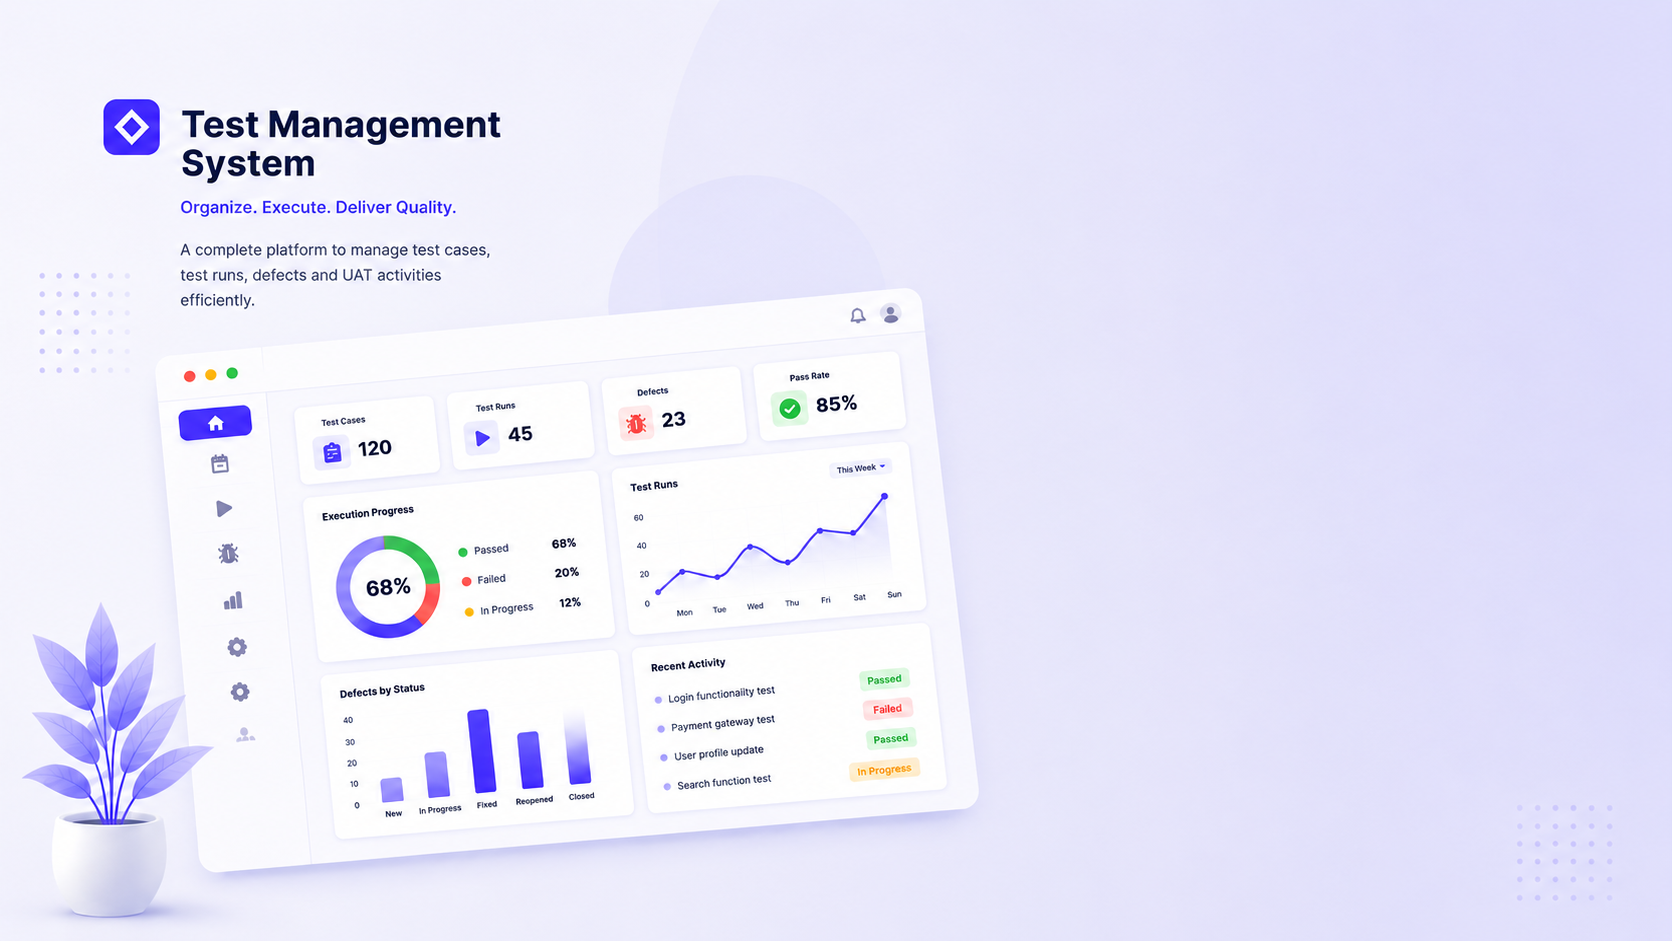
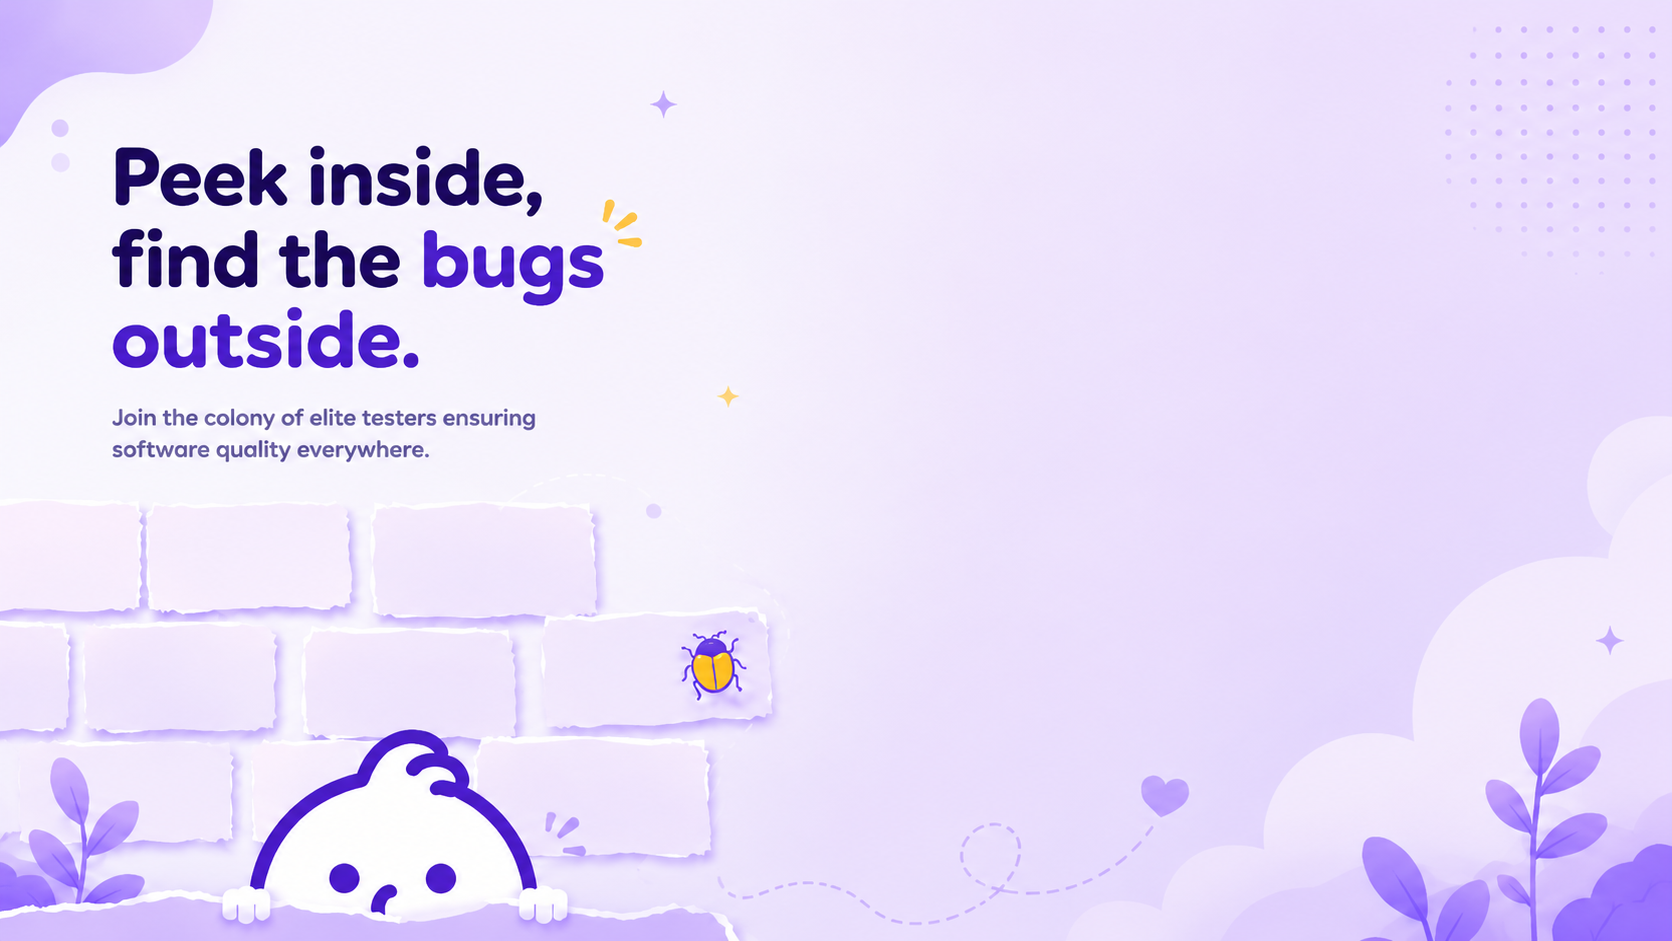
modify tms to peekQA

diff --git a/uat-frontend/src/components/LoginScreen.jsx b/uat-frontend/src/components/LoginScreen.jsx
@@ -2,18 +2,30 @@ import { useState } from "react";
 import { Eye, EyeOff, CircleUser, Lock } from "lucide-react";
 import DiamondMark from "./ui/DiamondMark";
 import loginBg from "../../public/login.png";
+import peekqaLogo from "../../public/peekqa-logo.png";
+import "../styles/LoginScreen.css";
 
 export default function LoginScreen({ username, password, rememberMe, error, busy, onUsernameChange, onPasswordChange, onRememberMeChange, onSubmit, onContactAdmin, onForgotPassword }) {
   const [showPw, setShowPw] = useState(false);
 
   return (
-    <div style={{ minHeight: "100vh", position: "relative", overflow: "hidden", fontFamily: "'Inter','Segoe UI',sans-serif", background: "#f8faff" }}>
-      <img src={loginBg} alt="Test Management System" style={{ position: "absolute", inset: 0, width: "100%", height: "100%", objectFit: "cover", objectPosition: "center" }} />
+    <div className="login-page">
+      <div className="login-hero">
+        <img
+          src={loginBg}
+          alt="PeekQA"
+          className="login-hero-image"
+        />
+      </div>
 
-      <div style={{ position: "relative", zIndex: 2, minHeight: "100vh", display: "flex", justifyContent: "flex-end", alignItems: "center", paddingRight: "8%" }}>
-        <div style={{ width: "100%", height: "auto", maxWidth: 520, padding: "80px 42px", borderRadius: 36, background: "rgba(255,255,255,0.32)", border: "1px solid rgba(255,255,255,0.28)", boxShadow: "0 8px 32px rgba(31,38,135,0.12), inset 0 1px 1px rgba(255,255,255,0.18)", position: "absolute", right: "8%", top: "50%", transform: "translateY(-50%)", overflow: "hidden" }}>
-          <div style={{ display: "flex", justifyContent: "center", marginBottom: 28 }}>
-            <div style={{ width: 78, height: 78, borderRadius: 24, background: "linear-gradient(135deg,#6366f1,#4f46e5)", display: "flex", alignItems: "center", justifyContent: "center", boxShadow: "0 14px 30px rgba(99,102,241,0.22)" }}><DiamondMark size={34} outer="#ffffff" inner="#4f46e5" stroke={6} /></div>
+      <div className="login-content">
+        <div className="login-card">
+          <div className="login-logo">
+            <img
+              src={peekqaLogo}
+              alt="PeekQA"
+              className="login-logo-image"
+            />
           </div>
 
           <div style={{ textAlign: "center", marginBottom: 50 }}>
@@ -26,17 +38,17 @@ export default function LoginScreen({ username, password, rememberMe, error, bus
               <label style={{ display: "block", marginBottom: 8, fontSize: 14, fontWeight: 700, color: "#334155", letterSpacing: "0.08em", textTransform: "uppercase" }}>Username</label>
               <div style={{ position: "relative" }}>
                 <CircleUser
-  size={16}
-  style={{
-    position: "absolute",
-    left: 16,
-    top: "50%",
-    transform: "translateY(-50%)",
-    color: "#94a3b8",
-    zIndex: 2,
-    pointerEvents: "none",
-  }}
-/>
+                  size={16}
+                  style={{
+                    position: "absolute",
+                    left: 16,
+                    top: "50%",
+                    transform: "translateY(-50%)",
+                    color: "#94a3b8",
+                    zIndex: 2,
+                    pointerEvents: "none",
+                  }}
+                />
                 <input
                   value={username}
                   onChange={e => onUsernameChange(e.target.value)}
@@ -51,17 +63,17 @@ export default function LoginScreen({ username, password, rememberMe, error, bus
               <label style={{ display: "block", marginBottom: 8, fontSize: 14, fontWeight: 700, color: "#334155", letterSpacing: "0.08em", textTransform: "uppercase" }}>Password</label>
               <div style={{ position: "relative" }}>
                 <Lock
-  size={16}
-  style={{
-    position: "absolute",
-    left: 16,
-    top: "50%",
-    transform: "translateY(-50%)",
-    color: "#94a3b8",
-    zIndex: 2,
-    pointerEvents: "none",
-  }}
-/>
+                  size={16}
+                  style={{
+                    position: "absolute",
+                    left: 16,
+                    top: "50%",
+                    transform: "translateY(-50%)",
+                    color: "#94a3b8",
+                    zIndex: 2,
+                    pointerEvents: "none",
+                  }}
+                />
                 <input
                   type={showPw ? "text" : "password"}
                   value={password}
@@ -112,7 +124,7 @@ export default function LoginScreen({ username, password, rememberMe, error, bus
 
             {error && <div style={{ background: "rgba(255,240,242,0.92)", border: "1px solid rgba(244,63,94,0.12)", color: "#be123c", padding: "12px 14px", borderRadius: 14, fontSize: 13 }}>{error}</div>}
 
-            <button type="submit" disabled={busy} style={{ marginTop: 4, width: "100%", padding: "16px 18px", border: "none", borderRadius: 16, background: "linear-gradient(135deg,#6366f1,#4f46e5)", color: "#fff", fontSize: 17, fontWeight: 800, cursor: "pointer", boxShadow: "0 14px 35px rgba(99,102,241,0.22)", transition: "all 0.18s ease" }}>
+            <button type="submit" disabled={busy} style={{ marginTop: 4, width: "100%", padding: "16px 18px", border: "none", borderRadius: 16, background: "linear-gradient( 135deg, #6366f1, #4f46e5)", color: "#fff", fontSize: 17, fontWeight: 800, cursor: "pointer", boxShadow: "0 14px 35px rgba(99,102,241,0.22)", transition: "all 0.18s ease" }}>
               {busy ? "Signing in..." : "→ Login"}
             </button>
 

diff --git a/uat-frontend/src/App.jsx b/uat-frontend/src/App.jsx
@@ -54,6 +54,7 @@ import TestCaseModals from "./components/TestCaseModals";
 import UsersTab from "./components/Users";
 import "./styles/Projects.css";
 import FilterDropdown from "./components/ui/FilterDropdown";
+import peekqaLogo from "../public/peekqa-logo.png";
 
 function getInitialDefectLinkId() {
   try {
@@ -537,7 +538,7 @@ export default function App() {
   }
 
   async function handleContactAdministrator() {
-    const subject = "Test Management System: Access Request";
+    const subject = "PeekQA: Access Request";
     const body = [
       "Hello Admin,",
       "",
@@ -571,7 +572,7 @@ export default function App() {
   }
 
   async function handleForgotPassword() {
-    const subject = "Test Management System: Password Reset Request";
+    const subject = "PeekQA: Password Reset Request";
     const body = [
       "Hello Admin,",
       "",
@@ -1533,11 +1534,11 @@ export default function App() {
       setShowAddUser(false);
 
       // Open admin's email client with pre-filled initial password email to the new user
-      const subject = "Test Management System - Your Account Has Been Created";
+      const subject = "PeekQA - Your Account Has Been Created";
       const body = [
         `Dear ${newUserDisplayName.trim()},`,
         "",
-        "Welcome to the Test Management System! Your account has been created.",
+        "Welcome to PeekQA! Your account has been created.",
         "",
         "Your login credentials:",
         `  Username (Email): ${newUserName.trim()}`,
@@ -1670,7 +1671,7 @@ export default function App() {
 
       setUsers(prev => prev.map(u => (u.id === result.user.id ? result.user : u)));
 
-      const subject = "Test Management System - Your Password Has Been Reset";
+      const subject = "PeekQA - Your Password Has Been Reset";
       const body = [
         `Dear ${user.displayName},`,
         "",
@@ -3043,15 +3044,42 @@ linear-gradient(
                 style={{ background: "none", border: "none", cursor: "pointer", color: "#8892a4", fontSize: 22, display: "flex", alignItems: "center", justifyContent: "center", width: "100%", height: "100%" }}>›</button>
             ) : (
               <>
-                <div style={{ display: "flex", alignItems: "center", gap: 12 }}>
-                  <div style={{ width: 46, height: 46, background: "linear-gradient(135deg,#6366f1,#4f46e5)", borderRadius: 10, display: "flex", alignItems: "center", justifyContent: "center", flexShrink: 0 }}>
-                    <DiamondMark size={24} outer="#ffffff" inner="#4f46e5" stroke={4} />
-                  </div>
-                  <div>
-                    <div style={{ fontSize: 18, fontWeight: 750, color: "#fff", lineHeight: 1.1 }}>PeekQA</div>
-                    <div style={{ fontSize: 11, color: "#8892a4", fontWeight: 500 }}>Test Management System</div>
-                  </div>
-                </div>
+                <div style={{ display: "flex", alignItems: "center", gap: 14 }}>
+  <img
+    src={peekqaLogo}
+    alt="PeekQA"
+    style={{
+      width: 54,
+      height: "auto",
+      objectFit: "contain",
+      flexShrink: 0,
+    }}
+  />
+
+  <div>
+    <div
+      style={{
+        fontSize: 18,
+        fontWeight: 700,
+        color: "#fff",
+        lineHeight: 1.1,
+      }}
+    >
+      PeekQA
+    </div>
+
+    <div
+      style={{
+        fontSize: 11,
+        color: "rgba(255,255,255,.65)",
+        fontWeight: 500,
+        marginTop: 2,
+      }}
+    >
+      Test Management System
+    </div>
+  </div>
+</div>
                 <button onClick={() => setSidebarCollapsed(true)} title="Collapse sidebar"
                   style={{ background: "rgba(255,255,255,0.08)", border: "none", borderRadius: 6, width: 26, height: 26, display: "flex", alignItems: "center", justifyContent: "center", cursor: "pointer", color: "#8892a4", fontSize: 16, flexShrink: 0 }}>‹</button>
               </>

diff --git a/uat-frontend/src/styles/LoginScreen.css b/uat-frontend/src/styles/LoginScreen.css
@@ -1,0 +1,61 @@
+.login-page {
+    min-height: 100vh;
+    overflow: hidden;
+    background: #f8faff;
+    font-family: "Inter", "Segoe UI", sans-serif;
+}
+
+.login-content {
+    min-height: 100vh;
+    display: flex;
+    justify-content: flex-end;
+    align-items: center;
+    position: relative;
+    z-index: 2;
+    padding-right: 8%;
+}
+
+.login-hero {
+    position: absolute;
+    inset: 0;
+    display: flex;
+    align-items: center;
+    justify-content: center;
+    overflow: hidden;
+}
+
+.login-hero-image {
+    width: 100%;
+    height: 100%;
+    object-fit: cover;
+    
+    /* This forces the bottom edge of the artwork to stay locked to the bottom of the screen */
+    object-position: bottom center; 
+}
+
+.login-card {
+    width: 100%;
+    max-width: 520px;
+    padding: 72px 56px;
+    border-radius: 32px;
+    background: rgba(255,255,255,.88);
+    backdrop-filter: blur(5px);
+    border: 1px solid rgba(255,255,255,.6);
+    box-shadow: 0 18px 50px rgba(79,70,229,.12);
+
+    position: absolute;
+    right: 12%;
+    top: 50%;
+    transform: translateY(-50%);
+}
+
+.login-logo {
+    display: flex;
+    justify-content: center;
+    margin-bottom: 28px;
+}
+
+.login-logo-image {
+    width: 120px;
+    height: auto;
+}

diff --git a/uat-frontend/index.html b/uat-frontend/index.html
@@ -2,9 +2,9 @@
 <html lang="en">
   <head>
     <meta charset="UTF-8" />
-    <link rel="icon" type="image/svg+xml" href="/tms-icon.svg" />
+    <link rel="icon" type="image/svg+xml" href="/PeekQA-logo.png" />
     <meta name="viewport" content="width=device-width, initial-scale=1.0" />
-    <title>Test Management System</title>
+    <title>PeekQA</title>
   </head>
   <body>
     <div id="root"></div>
